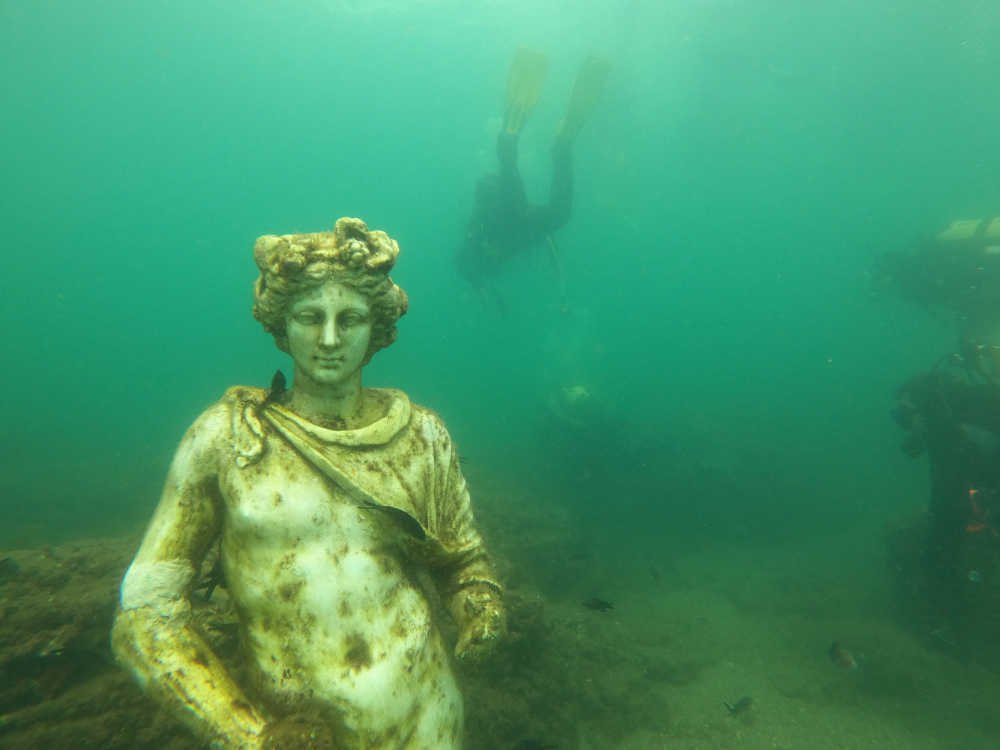
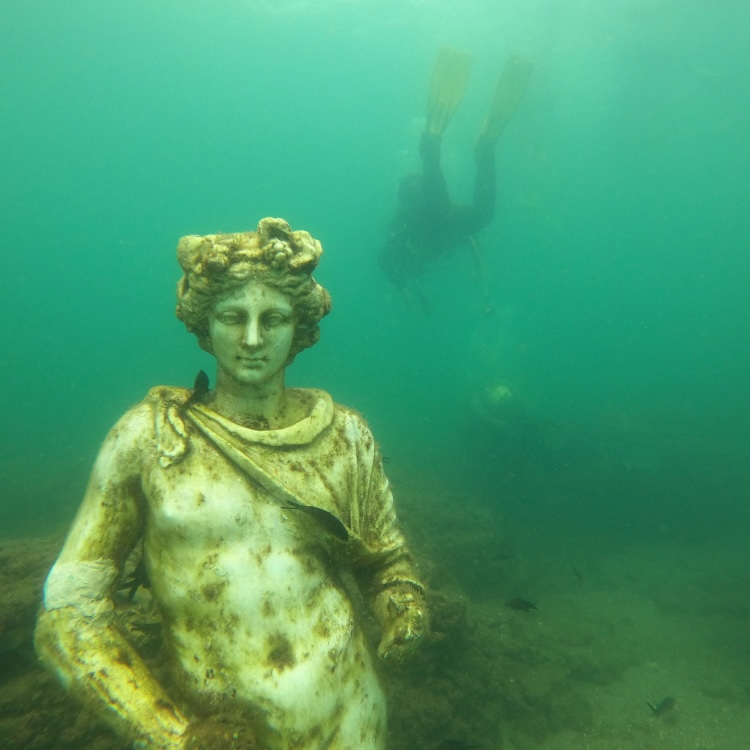
scuba picture added

diff --git a/photos.html b/photos.html
@@ -47,13 +47,29 @@
           />
         </div>
         <div class="project-details">
-          <p class="project-name">Italian adventures</p>
+          <p class="project-name">Italy adventures</p>
           <p class="project-description">Scuba Diving but mostly gelato</p>
           <p class="project-description"></p>Good gelato</p>
         </div>
       </div>
 
       <div class="project-1">
+        <div class="project-image-4">
+          <img
+            src="scuba_3.jpg"
+            width="500"
+            height="500"
+            alt="a picture of a text-based adventure game"
+          />
+        </div>
+        <div class="project-details">
+          <p class="project-name">More scuba diving</p>
+          <p class="project-description">With Elijah Holton in the background</p>
+          <p class="project-description"></p>And Matthew Holton in the foreground</p>
+        </div>
+      </div>
+
+      <div class="project-2">
         <div class="project-image-4">
           <img
             src="food.jpg"
@@ -69,7 +85,7 @@
         </div>
       </div>
 
-      <div class="project-2">
+      <div class="project-1">
         <div class="project-image-7">
           <img
             src="fun.jpg"
@@ -85,7 +101,7 @@
         </div>
       </div>
 
-      <div class="project-1">
+      <div class="project-2">
         <div class="project-image-6">
           <img
             src="hoover.jpg"
@@ -101,7 +117,7 @@
         </div>
       </div>
 
-      <div class="project-2">
+      <div class="project-1">
         <div class="project-image-6">
           <img
             src="december.jpg"
@@ -117,7 +133,7 @@
         </div>
       </div>
 
-      <div class="project-1">
+      <div class="project-2">
         <div class="project-image-8">
           <img
             src="IMG_8553.png"
@@ -133,7 +149,7 @@
         </div>
       </div>
 
-      <div class="project-2">
+      <div class="project-1">
         <div class="project-image-6">
           <img
             src="hiking_2.jpg"
@@ -149,7 +165,7 @@
         </div>
       </div>
 
-      <div class="project-1">
+      <div class="project-2">
         <div class="project-image-5">
           <img
             src="silly_girl.jpg"
